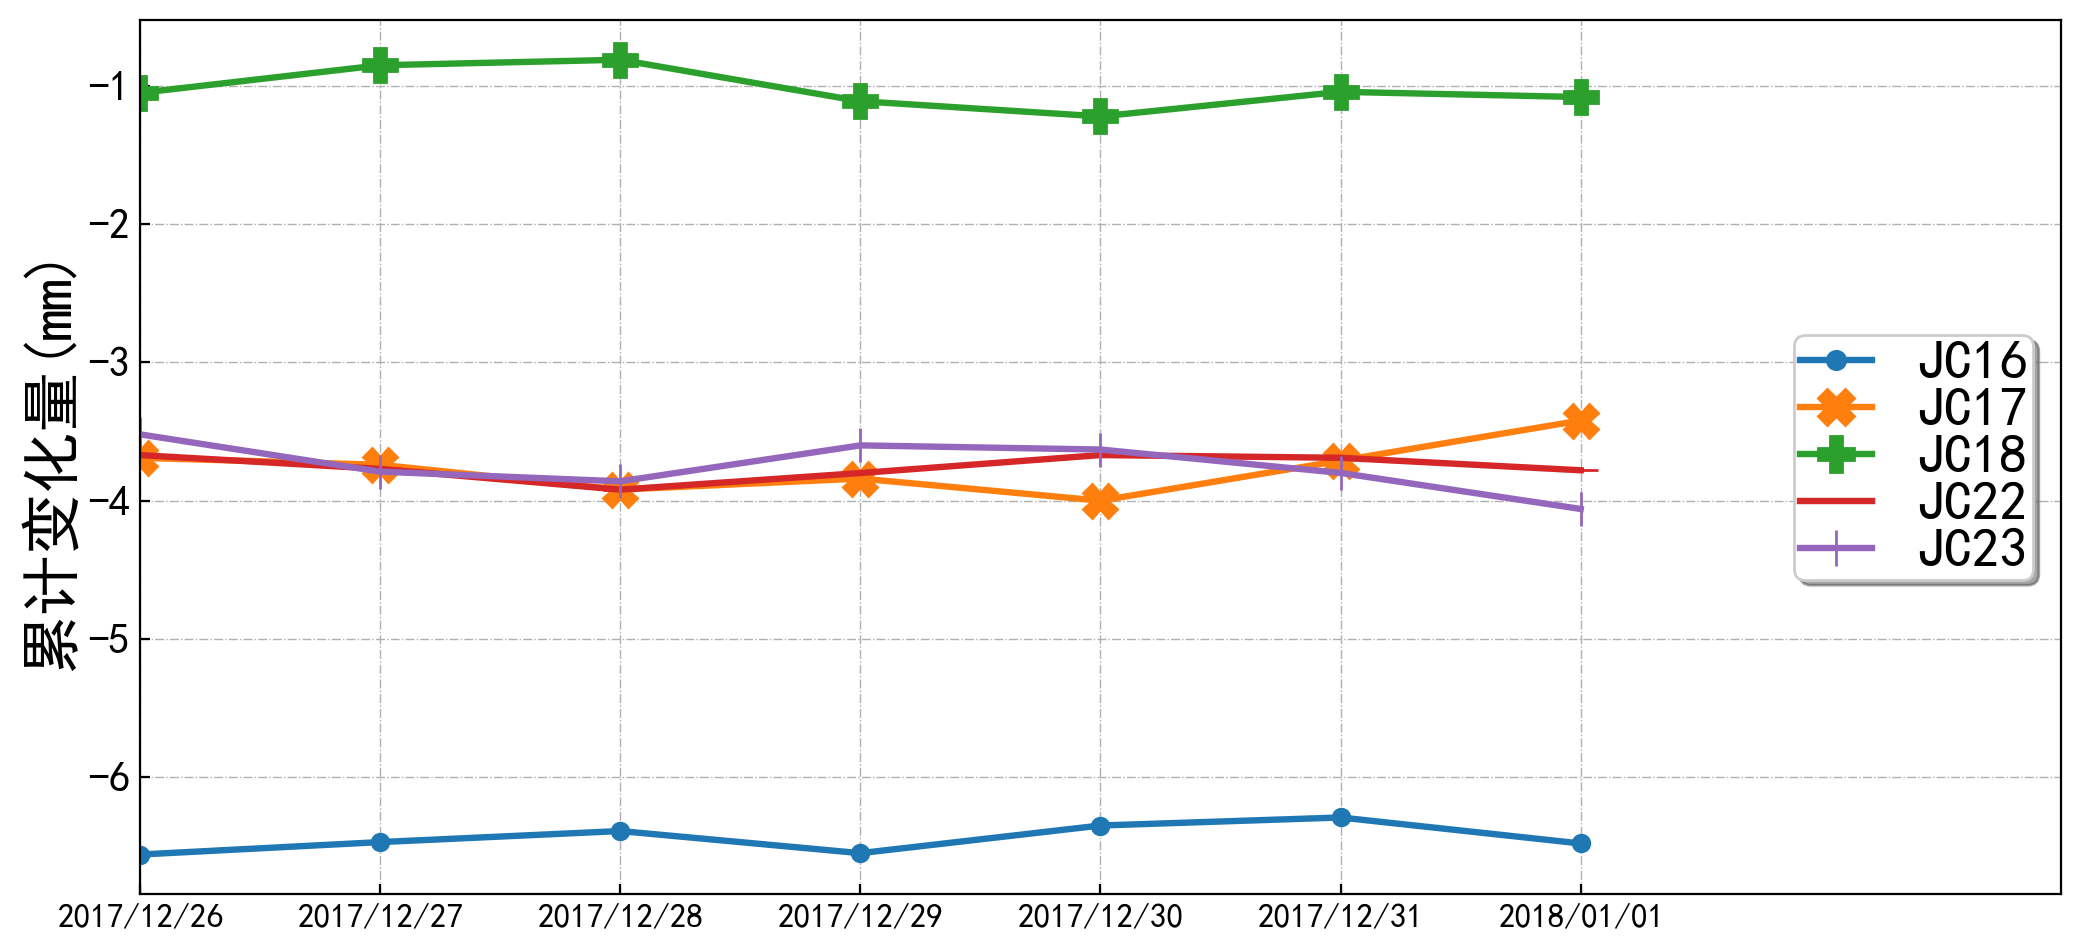
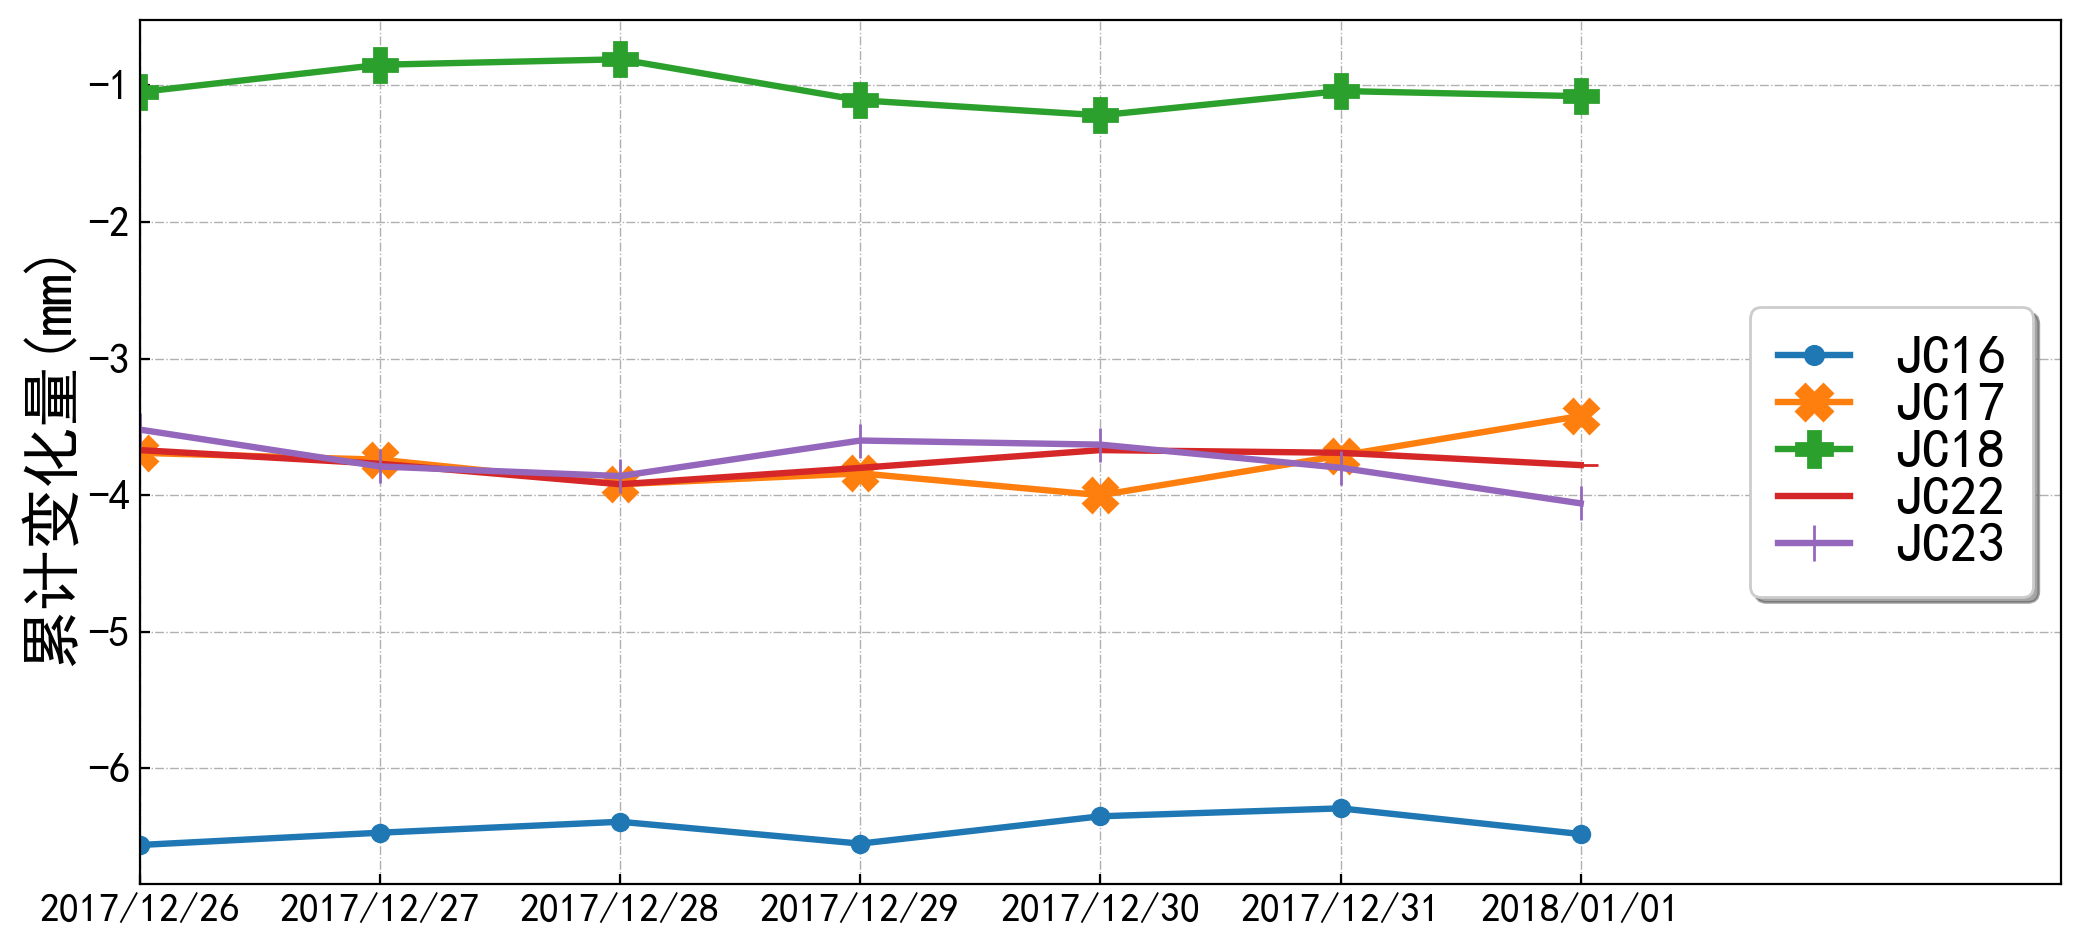
make_layout_pages finsihed
update docx sections with height, width and orientation.

diff --git a/gen_docx.py b/gen_docx.py
@@ -5,16 +5,15 @@
 '''
 
 from docx import Document
-from collections import namedtuple
-import os
-
 from docx.enum.text import WD_ALIGN_PARAGRAPH
+from docx.enum.section import WD_ORIENT
+from docx.enum.section import WD_SECTION
 from docx.shared import Cm
-import read_xlsx
+import os
 from datetime import datetime
-
-#求七天累计变化列表
+from collections import namedtuple
 from numpy import array
+import read_xlsx
 import draw_plot
 
 ProInfo = namedtuple("ProInfo", ['name', 'area', 'code', 'contract', 'builder',\
@@ -41,6 +40,33 @@ def d_s(date_str):
 	ds = date_str.strftime("%Y/%m/%d")
 	return ds
 
+def get_file_list(dir,file_list):
+	'''
+	获取目录dir下的所有文件名(文件路径)
+	略过隐藏的特殊文件
+	支持子目录
+	'''
+	try:
+		new_dir = dir
+		if os.path.isfile(dir):
+			file_list.append(dir)
+		elif os.path.isdir(dir):
+			for s in os.listdir(dir):
+				#略过特殊字符开头的文件或者文件夹
+				if not s[0].isdigit() and not s[0].isalpha():
+					#logger.warning("Hidden file:%s"%(s))
+					#logger.warning("Hidden file:{}".format(s))
+					if s != '.':
+						continue
+				new_dir = os.path.join(dir,s)
+				get_file_list(new_dir,file_list)
+		else:
+			pass
+	except Exception as e:
+		#logger.warning(e)
+		print("warning,e:",e)
+	return file_list
+
 class MyDocx(object):
 	def __init__(self, docx_path, proj_info, my_xlsx):
 		print("__init__ MyDocx")
@@ -49,6 +75,8 @@ class MyDocx(object):
 		self.docx = None
 		self.path = docx_path
 		self.date = proj_info[-1]
+		self.xlsx_path = os.path.dirname(proj_info[-2])
+		print("DEBUG xlsx path=",self.xlsx_path)
 		self.str_date = date_to_str(self.date)
 		#xlsx实例
 		self.my_xlsx = my_xlsx
@@ -75,26 +103,49 @@ class MyDocx(object):
 		else:
 			pass
 
-		#创建数据分析页
+		#创建数据分析页****
 		if not self.make_overview_pages():
 			print("DEBUG make_overview_pages error")
 		else:
 			pass
 
 		#创建现场安全巡视页
+		#new section landscape
+		#页面布局为横向
+		pass
 		if not self.make_security_pages():
 			print("DEBUG make_security_pages error")
 		else:
 			pass
 
-		#创建沉降监测表页
+
+		#创建沉降监测表页*****
+		#回复页面布局为纵向
+		pass
 		if not self.make_settlement_pages():
 			print("DEBUG make_settlement_pages error")
 		else:
 			pass
 
+		#测斜监测报表***
+		pass
 
-		print("Saving...")
+
+		#爆破振动监测报表
+		#new section landscape
+		#页面布局为横向
+		new_section = d.add_section(WD_SECTION.ODD_PAGE)
+		new_section.orientation = WD_ORIENT.LANDSCAPE
+		new_section.page_width = Cm(27.94)
+		new_section.page_height = Cm(21.59)
+		pass
+
+		#链接布点图word文件
+		if not self.make_layout_pages():
+			print("DEBUG make_layout_pages error")
+
+
+		print("All pages done, saving docx file...")
 		self.docx.save(self.path)
 		return True
 	#######gen_docx()####################################
@@ -700,7 +751,6 @@ class MyDocx(object):
 		t.cell(11,1).merge(t.cell(11,9))
 
 		#插入曲线图
-		#demo_jpg = r'C:\Users\tarzonz\Desktop\oreport\demo.jpg'
 		p = t.cell(11,1).paragraphs[0]
 		run = p.add_run()
 		run.add_picture(fig_path, width=Cm(13), height=Cm(5))
@@ -901,28 +951,53 @@ class MyDocx(object):
 
 	################make_settlement_pages()##########################
 
+	def make_layout_pages(self):
+		'''
+		把self.xlsx_path下的图片文件追加的docx中
+		'''
+		print("DEBUG start make_layout_pages")
+
+
+		d = self.docx
+
+
+		#获取文件夹下的所有文件地址:
+		file_list = get_file_list(self.xlsx_path, [])
+
+		for item in file_list:
+			print(item)
+			sufx = os.path.basename(item)
+			if '.xlsx' in sufx or '.docx' in sufx or '.dr' in sufx or '.txt' in sufx:
+				continue
+			try:
+				d.add_picture(item, width=Cm(23), height=Cm(18))
+				print("DEBUG success inserted!")
+			except:
+				print("not a picture file ".format(item))
+
+		print("Insert pictures done")
+		return True
+	#####################concatenate_new_docx()#######################
+
 
 if __name__ == '__main__':
 
 	#测试
+	print("Start Test")
+	xlsx_path = r'C:\Users\tarzonz\Desktop\演示工程A\一二工区计算表2018.1.1.xlsx' 
+	docx_path = r'C:\Users\tarzonz\Desktop\演示工程A\demo1.docx'
 	date_v = '2018/1/1'
 	date_v = datetime.strptime(date_v, '%Y/%m/%d')
-	xlsx_path = r'C:\Users\tarzonz\Desktop\oreport\一二工区计算表2018.1.1.xlsx' 
 	project_info = ["青岛市地铁1号线工程", "一、二工区", "DSFJC02-RB-594", \
 	"M1-ZX-2016-222", "中国中铁隧道局、十局集团有限公司",\
 	 "北京铁城建设监理有限责任公司", "中国铁路设计集团有限公司",\
 	 '中铁隧道勘察设计研究院有限公司', xlsx_path, date_v]
 
-	docx_path = r'C:\Users\tarzonz\Desktop\demo1.docx'
-	demo_jpg = r'C:\Users\tarzonz\Desktop\oreport\demo.jpg'
-	#with open(docx_path, 'wb') as fobj:
-	#	pass
 
-	data_source = r'C:\Users\tarzonz\Desktop\oreport\一二工区计算表2018.1.1.xlsx'
 	my_xlsx = read_xlsx.MyXlsx(xlsx_path)
 	my_docx = MyDocx(docx_path, project_info, my_xlsx)
-	res = my_docx.gen_docx()	
 
+	res = my_docx.gen_docx()	
 	if res:
 		print("'{}' has been created".format(docx_path))
 		print("Done")

diff --git a/project_info.py b/project_info.py
@@ -103,6 +103,7 @@ class MyPro(object):
 
 		ttk.Label(self.pro_top, text='').pack()
 
+
 		#xlsx数据源
 		fm_xlsx = tk.Frame(self.pro_top)
 		ttk.Label(fm_xlsx, text='excel数据源: ').pack(side=tk.LEFT)
@@ -112,6 +113,8 @@ class MyPro(object):
 		ttk.Button(fm_xlsx, text="...", width=5, command=self.select_xlsx)\
 		.pack(side=tk.LEFT)
 		fm_xlsx.pack()
+		ttk.Label(self.pro_top, text='注:把平面布点图片文件放到excel数据源同目录下').\
+		pack()
 
 		ttk.Label(self.pro_top, text='').pack()
 		ttk.Label(self.pro_top, text='').pack()

diff --git a/draw_plot.py b/draw_plot.py
@@ -46,7 +46,7 @@ class MyPlot(object):
 		#self.plt.legend(loc='upper center',bbox_to_anchor=(0.5,1.08),ncol=4,\
 		#	fancybox=True,shadow=False)
 		self.plt.legend(loc='center right',bbox_to_anchor=(1.,0.5),ncol=1,\
-			fancybox=True,shadow=True,markerscale=1.1,borderpad = 0.1,labelspacing=0.02,handlelength=1.3,\
+			fancybox=True,shadow=True,markerscale=1.1,borderpad = 0.5,labelspacing=0.02,handlelength=1.3,\
 			columnspacing=0.02, fontsize=20)
 		self.plt.grid(linewidth='0.5',linestyle='-.')
 
